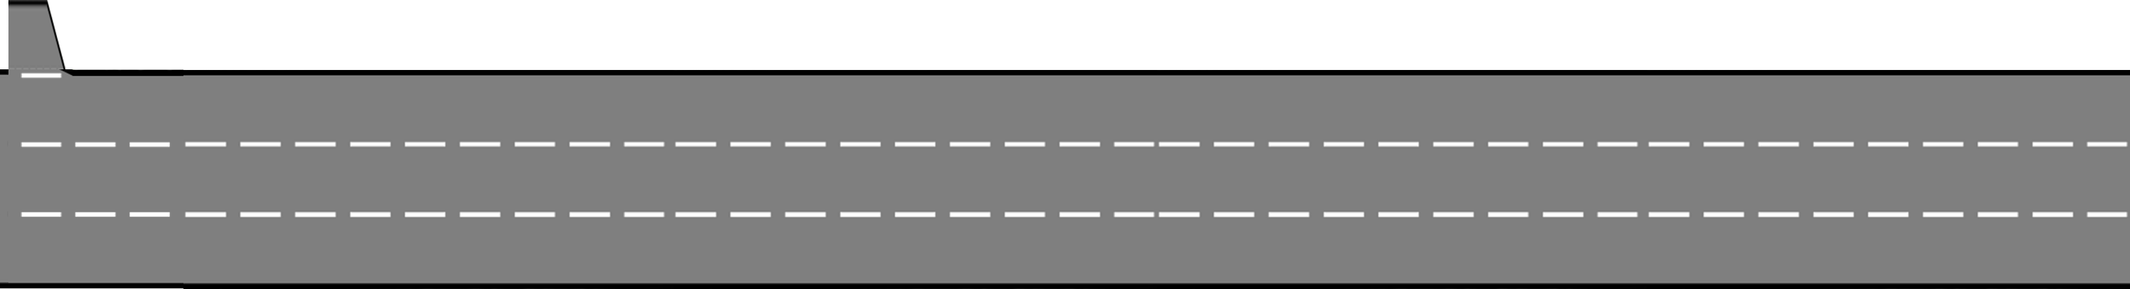
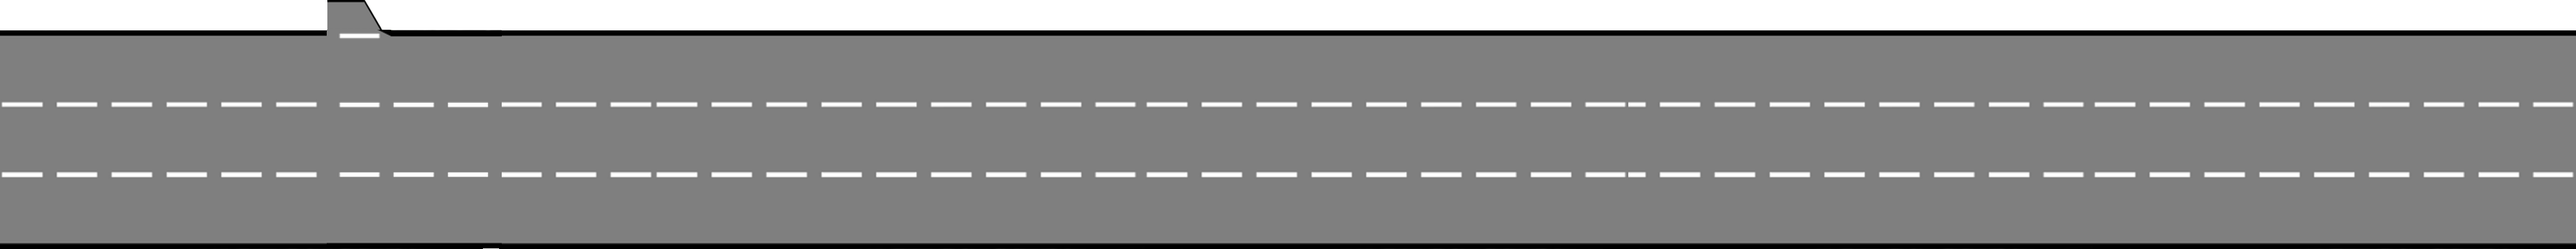
re-position realtime metrics

diff --git a/Window.py b/Window.py
@@ -82,8 +82,8 @@ class Window:
         # Creating Real Time Metric Display
         self.realtime_flow = [[], [], [], []]
         self.mean_flow = []
-        self.metric_list = [(167,325), (2100,390), (80000,390), (159980, 390)]
-        self.miniloc_list = [(538,39), (570,44), (754,50), (954, 50)]
+        self.metric_list = [(10000,390), (30000,390), (80000,390), (159980, 390)]
+        self.miniloc_list = [(387,45), (487,45), (740,45), (1138, 45)]
 
         # Setting up the Simulation
         self.is_running = True
@@ -224,10 +224,7 @@ class Window:
 
     def assign_section(self, loc, speed, vehicle_metrics):
         for idx, metric_loc in enumerate(self.metric_list):
-            if idx == 0: # if vehicle is at the first checkpoint
-                if loc[0] >= metric_loc[0] and loc[0] <= metric_loc[0] + self.length_conversion(100):
-                    vehicle_metrics[idx].append((speed, self.length_conversion(116.7)))
-            elif loc[0] >= metric_loc[0] - self.length_conversion(500) and loc[0] <= metric_loc[0] + self.length_conversion(500):
+            if loc[0] >= metric_loc[0] - self.length_conversion(500) and loc[0] <= metric_loc[0] + self.length_conversion(500):
                 vehicle_metrics[idx].append((speed, self.length_conversion(1000)))
 
     def compute_metrics(self, vehicle_metric, realtime_metrics):
@@ -332,10 +329,9 @@ class Window:
             if self.minimap.slide_rect.collidepoint(pygame.mouse.get_pos()) and pygame.mouse.get_pressed()[0]:
                 self.minimap.move_slider(pygame.mouse.get_pos())
                 x = self.minimap.slider_value()
-                # self.bg.scroll_pos = x-1989
                 self.bg.scroll_pos = x - 447
 
-            print("scrollpos:", self.bg.scroll_pos)
+            print(f"scrollpos:{self.bg.scroll_pos}, x{ self.minimap.slider_value()}" )
 
             # Event check first
             for event in pygame.event.get():

diff --git a/Visual.py b/Visual.py
@@ -270,6 +270,7 @@ class Background():
     def draw_metric(self, flow_list, metric_loc, mini_loc):
         font = pygame.font.Font(None, 30)
         fontmini = pygame.font.Font(None, 15)
+        line_length = 49
 
         for idx, loc in enumerate(metric_loc):
             if flow_list is None or len(flow_list) == 0:
@@ -278,12 +279,6 @@ class Background():
                 flow = flow_list[idx]
 
             # Draw near minimap
-            if idx == 0:
-                line_length = 60
-            elif idx == 1:
-                line_length = 55
-            else:
-                line_length = 49
             text_surface_mini = fontmini.render(f"{flow}", True, window_params['black'])
             text_rect_mini = text_surface_mini.get_rect(center=(mini_loc[idx][0], mini_loc[idx][1]+line_length+10))
             text_surface_mini_fixed = fontmini.render(f"veh/h", True, window_params['black'])
@@ -314,7 +309,6 @@ class Background():
             if x == 11:
                 self.surface.blit(self.road_image, ((x * self.road_width) - self.scroll_pos * 5, self.road_y))
                 self.surface.blit(self.road_image, (2500+(x * self.road_width) - self.scroll_pos * 5, self.road_y))
-                # self.surface.blit(self.road_image, ((x * self.road_width) - self.scroll_pos * 5, self.road_y))
             elif x == 12:
                 self.surface.blit(self.road_image, ((x * self.road_width) - self.scroll_pos * 5, self.road_y))
                 self.surface.blit(self.road_image, (3500+(x * self.road_width) - self.scroll_pos * 5, self.road_y))
